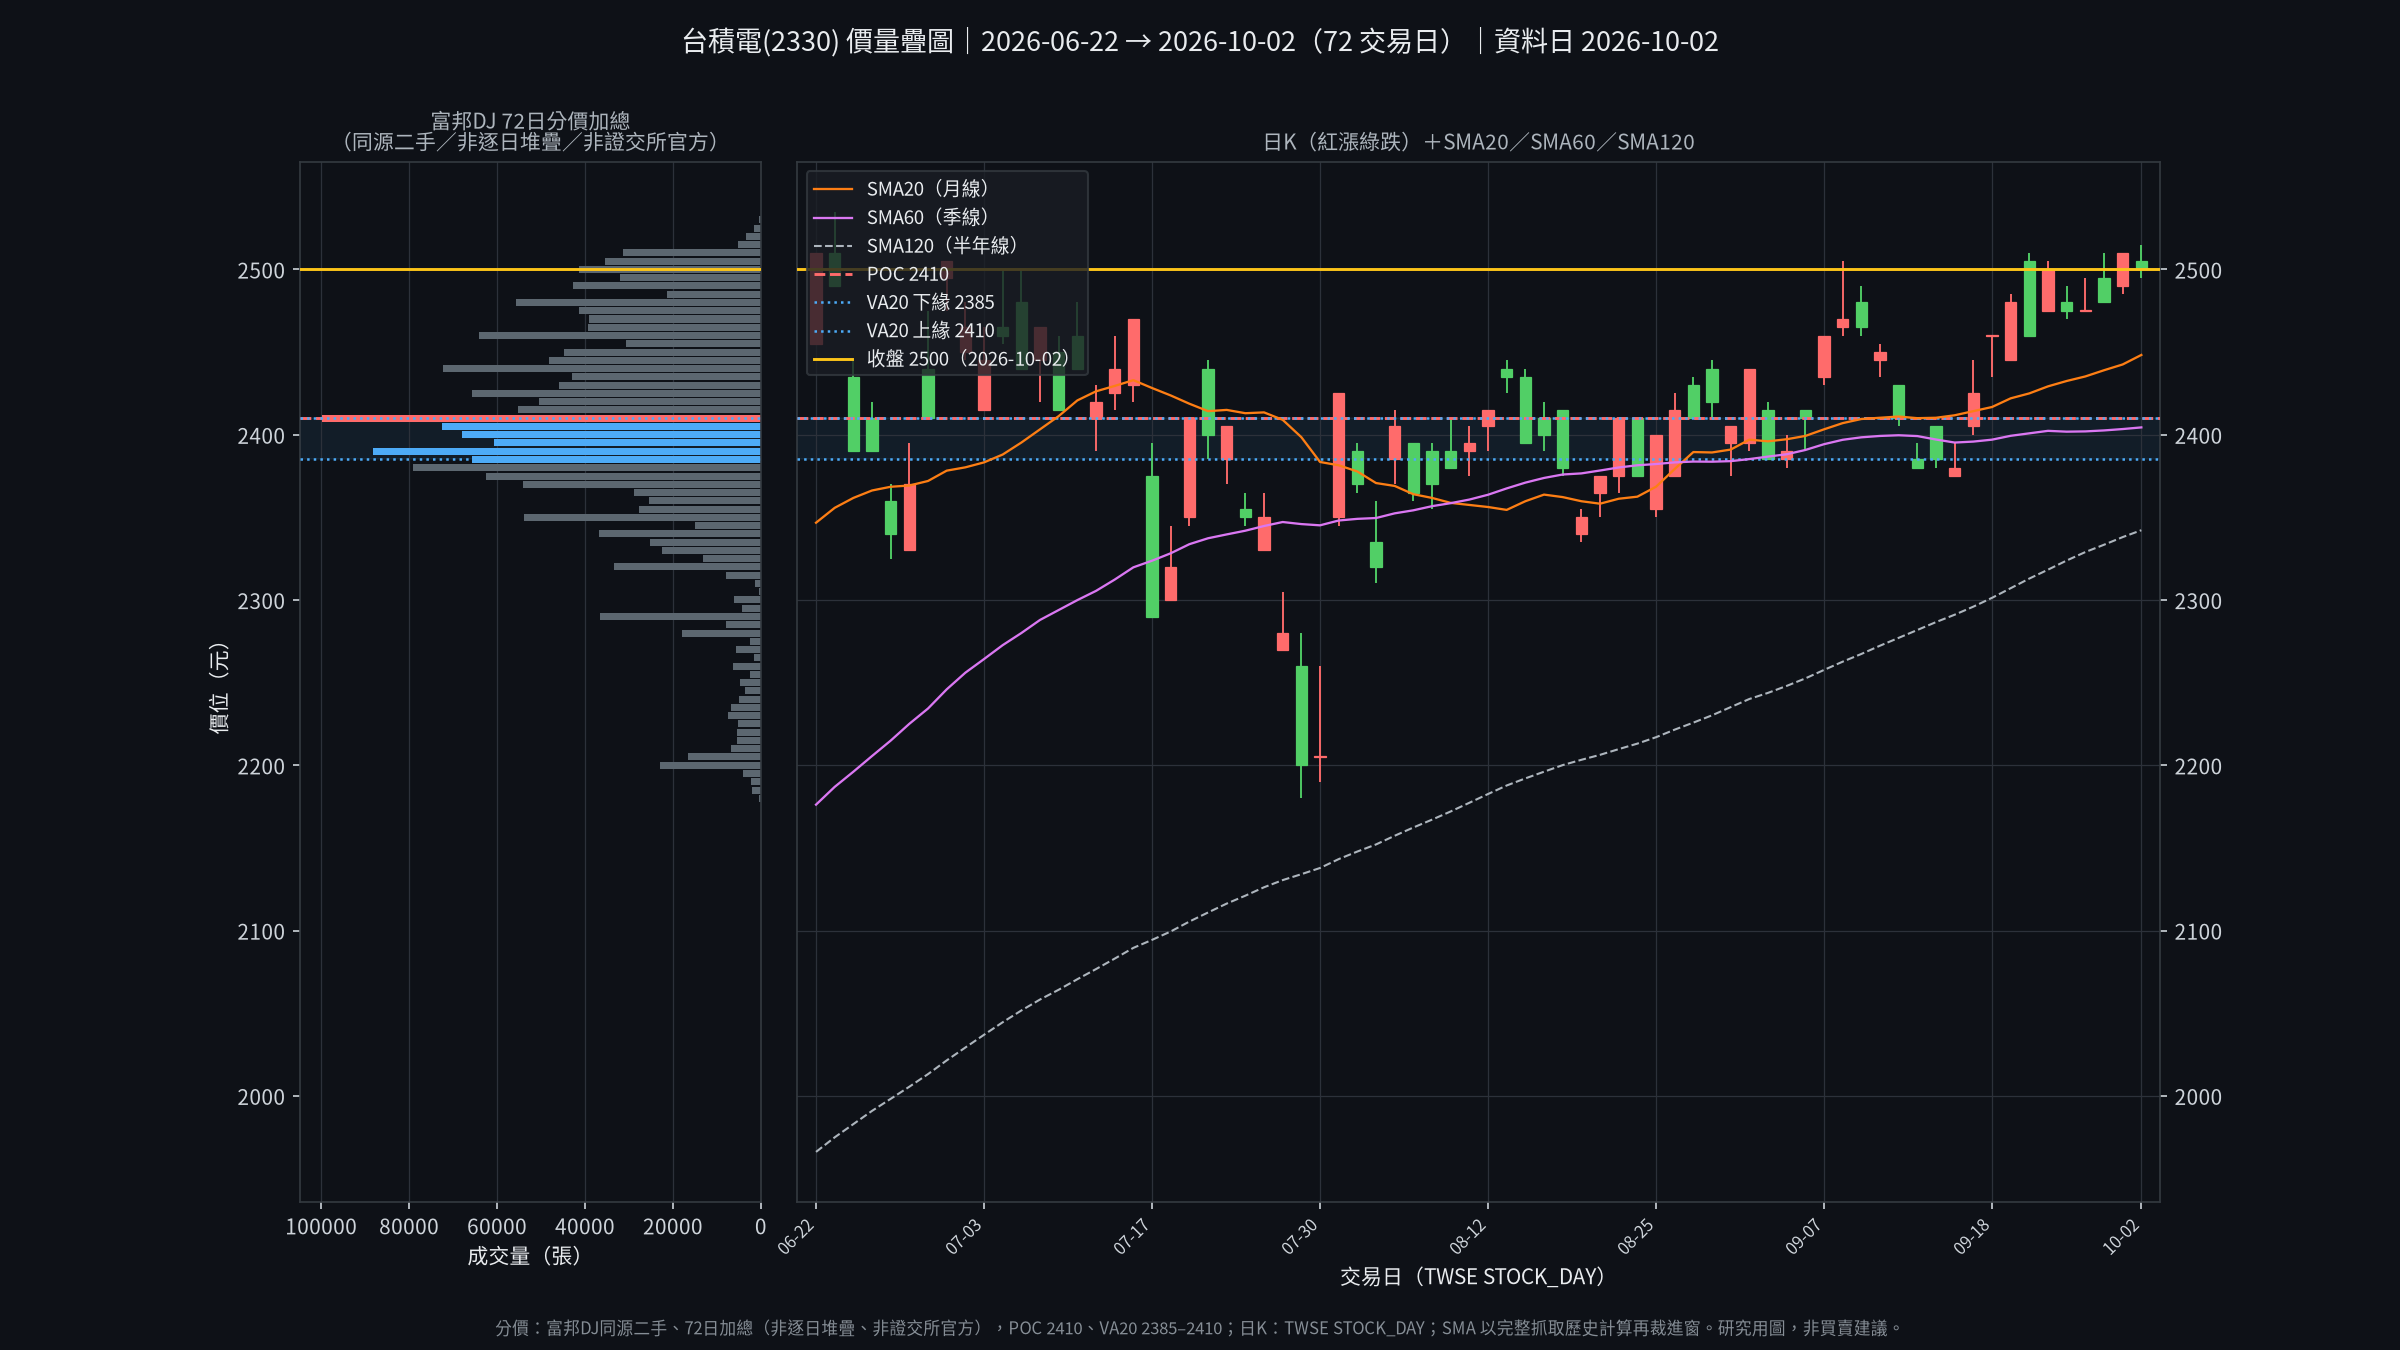
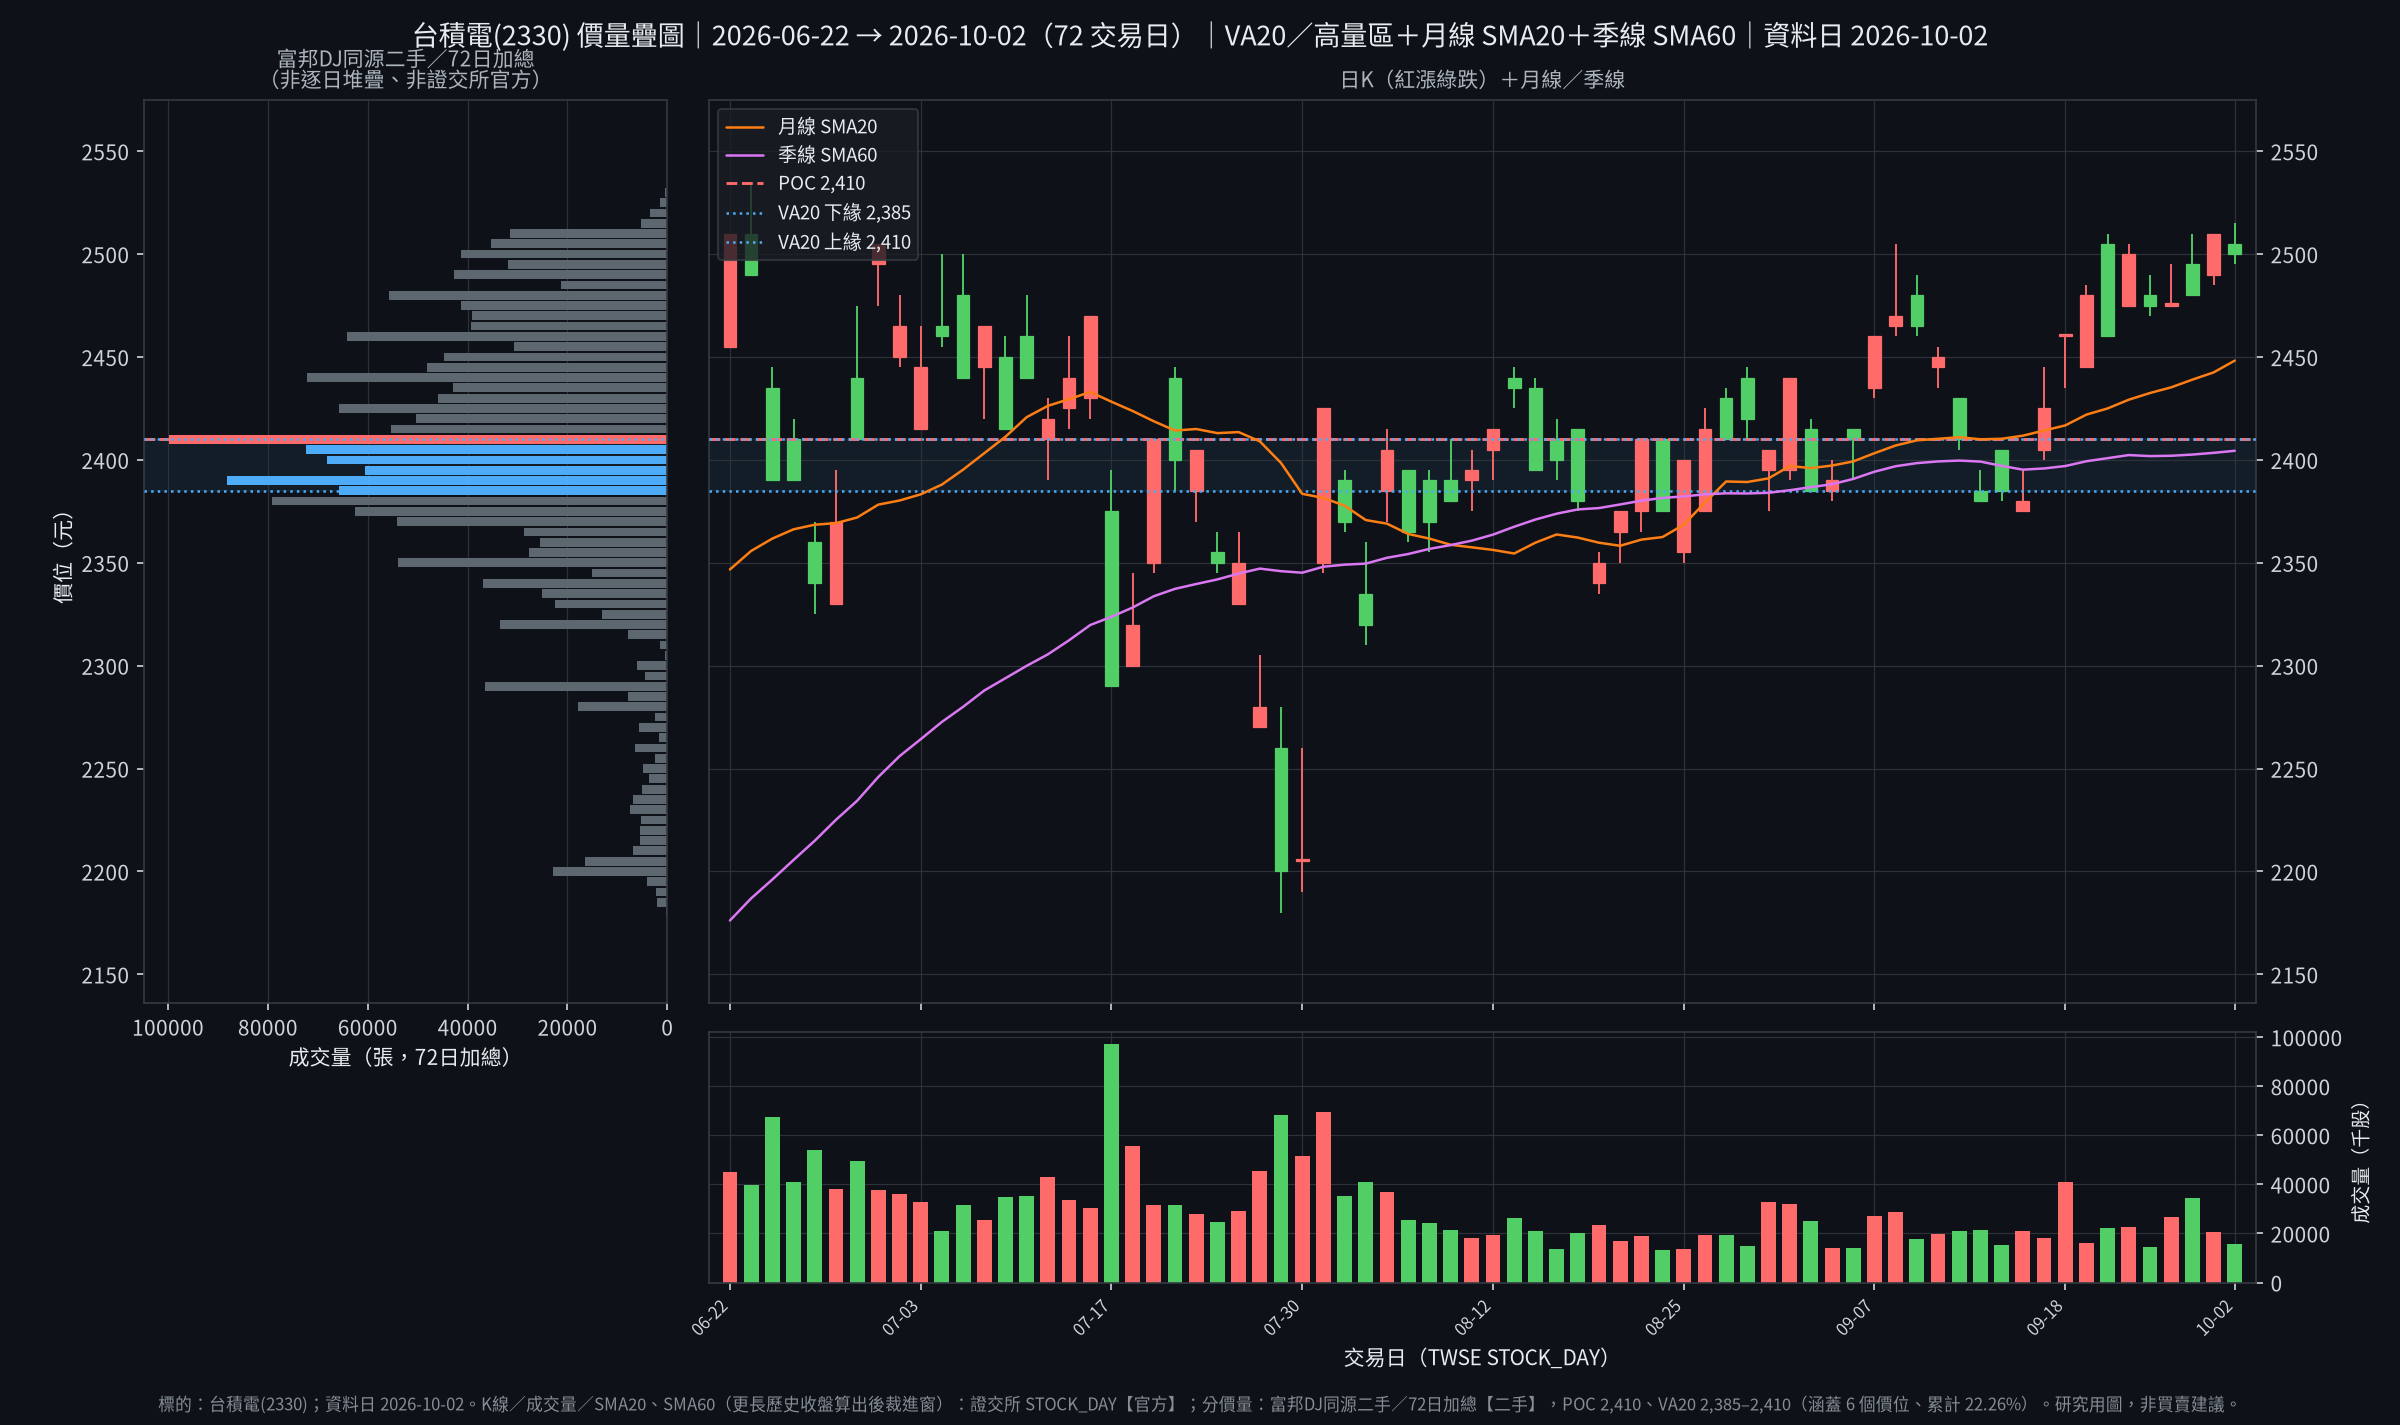
修正 2330 台積電價量疊圖：移除收盤線、SMA120 與 SMA240
- 圖說：移除 SMA120，改為只列 SMA20 / SMA60
- 表格：移除「收盤」獨立列（改併入「現價相對價值區」）、SMA120 與 SMA240 列
- 圖例：移除 SMA120 灰色虛線，補充顏色代碼與 POC / VA20 線型
- 5.1 技術面依據：移除 SMA120 數值（評分 7.0 不變）
- Data & Sources 缺件：移除 STOCK_DAY 2025-06～09 字樣
- 待補清單第 5 項：改為只寫 openapi STOCK_DAY_ALL（項數不變）
- 重繪圖片：新圖移除收盤線與 SMA120，加日成交量副圖，數字未變（POC 2,410、VA20 2,385–2,410、SMA20 2,448、SMA60 2,404）

待補清單：原 43 項保持 43 項（僅修改第 5 項說明）

diff --git a/analysis/2330_TSMC.md b/analysis/2330_TSMC.md
@@ -20,7 +20,7 @@ Data & Sources
                 指數收盤，3Q26 法說焦點）；聯電、日月光投控 2Q26 業績報導（MoneyDJ / biggo）；
                 HiStock 個股本益比月頻表（2026-10-04 重抓；2026/10 值 28.98 與證交所 2026-10-02 一致；5 年分位為自算）
               【缺件】公開資訊觀測站（MOPS）與 doc.twse：2026-10-01 診斷為封鎖，本次未重試也未繞過；
-                TWSE STOCK_DAY 2025-06 至 2025-09 與 openapi.twse.com.tw STOCK_DAY_ALL 回「安全性考量」阻擋頁，
+                openapi.twse.com.tw STOCK_DAY_ALL 回「安全性考量」阻擋頁，
                 重試兩次仍被擋，未繞過
   來源標示定義:【一手】公司自己發布的文件：IR、法說會、財報原檔（含公司經公開資訊觀測站申報的版本）；
               【官方】交易所、主管機關的市場資料：個股日成交、三大法人、外資持股等；
@@ -76,20 +76,18 @@ Data & Sources
 
 ### 關鍵數據補充：價量疊圖
 
-![2330 台積電價量疊圖（日K、成交量、分價量 POC / VA20、SMA20/60/120）](img/2330_price_volume_overlay_2026-10-02.png)
+![2330 台積電價量疊圖（日K、成交量、分價量 POC / VA20、SMA20 / SMA60）](img/2330_price_volume_overlay_2026-10-02.png)
 
 資料日：2026-10-02 收盤。K 線與成交量為證交所 STOCK_DAY 日資料；分價量為富邦 DJ 72 日加總表（2026-06-22 至 2026-10-02，二手，非逐日堆疊、非證交所官方）。
 
 | 圖上項目 | 數值 | 來源 / 算法 |
 |----------|------|-------------|
-| 收盤 | NT$2,500 | 證交所 |
 | 控制點 POC（成交量最大價位） | NT$2,410（99,826 張） | 富邦 DJ 72 日分價量，二手 |
 | 價值區 VA20（定義：自 POC 向兩側擴張，累計成交量 ≥ 20% 的價格區間） | NT$2,385–2,410，涵蓋 6 個價位（每檔 5 元），累計 454,809 張 = 22.26%（72 日總量 2,043,222 張；分價表共 72 個價位，2,180–2,535） | 同上，自行彙整 |
-| 現價相對價值區 | +3.7%（在區間上方；對 VA20 上緣 2,410） | 自算 |
-| SMA20 / SMA60 / SMA120 | 2,448 / 2,404 / 2,342 | 證交所日收盤自算 |
-| SMA240 | 未畫 | 缺件：2025-06 至 2025-09 的證交所日資料被「安全性考量」阻擋頁擋下，只取得 243 個交易日，240 日均線窗口內有效天數不足，不用不完整資料硬畫 |
+| 現價相對價值區 | 2026-10-02 收盤 NT$2,500（證交所）：+3.7%（在區間上方；對 VA20 上緣 2,410） | 自算 |
+| SMA20 / SMA60 | 2,448 / 2,404 | 證交所日收盤自算（以 243 個交易日歷史計算，再裁進 72 日窗顯示） |
 
-圖例：紅漲綠跌；SMA20 橘色細實線、SMA60 紫色細實線、SMA120 灰色虛線。
+圖例：紅漲綠跌（#ff6b6b / #51cf66）；SMA20 橘色細實線、SMA60 紫色細實線；POC 紅色虛線；VA20 上下緣藍色點線。
 
 ---
 
@@ -443,7 +441,7 @@ GARP 進場價 = 2,330 × 0.9 = NT$2,097，記 NT$2,100。價值進場價 = 2,33
 | 商業品質 | 25% | 8.8 | 護城河 8.5 與財務體質 9.0 的平均。9.0 來自 ROIC 利差 +24 pp、淨現金、流動比率 2.5x；FCF 轉換與營運資金趨勢是扣分項 |
 | 估值 | 25% | 4.3 | 安全邊際 −7%，風險報酬比 0.25 : 1。評分規則：合理價 5.0 分，溢價每 1% 扣 0.1（5.0 + 0.10 × (−7.3) = 4.27）。上一版 4.5 是判斷值 |
 | 市場訊號 | 20% | 6.5 | 法說上修全年美元成長與資本支出，語氣強。外資 69.17%，2026-10-01 買超後 2026-10-02 賣超。目標價全部高於現價。內部人買賣申報（MOPS）為缺件 |
-| 技術面 | 15% | 7.0 | 2026-10-02 收盤 NT$2,500 在 SMA20 2,448、SMA60 2,404、SMA120 2,342 之上，也高於 72 日價值區 VA20 上緣 2,410（POC 2,410）；RSI 60.4（stockanalysis，二手）；距 52 週高點 −1.4% |
+| 技術面 | 15% | 7.0 | 2026-10-02 收盤 NT$2,500 在 SMA20 2,448、SMA60 2,404 之上，也高於 72 日價值區 VA20 上緣 2,410（POC 2,410）；RSI 60.4（stockanalysis，二手）；距 52 週高點 −1.4% |
 | 風險 | 15% | 5.0 | Bear 強度 4.5。產能集中與毛利率稀釋還在 |
 | **綜合** | | **6.4** | 8.8×0.25 + 4.3×0.25 + 6.5×0.20 + 7.0×0.15 + 5.0×0.15 = 6.375，四捨五入記 6.4 |
 
@@ -569,7 +567,7 @@ A 6 + B 7 + C 8 + D 7 + E 5 + F 4 + G 6 = 43 項。
 2. 3Q26 財報與法說（含 3Q26 共識 EPS：4.1 的「下一季 E」只有自行估算 ~26.6，沒有取得共識 EPS 可對照）。公司日曆排 2026-10-15 14:00，截至 As of 尚未公布
 3. MOPS 內部人持股異動、重大訊息：MOPS 與 doc.twse 於 2026-10-01 診斷為封鎖，本次未重試也未繞過
 4. 2Q26 會計師核閱報告結論原文：財報 PDF 內該頁為影像，文字層抽不出，未逐字核對
-5. TWSE 2025-06 至 2025-09 日成交資料與 openapi STOCK_DAY_ALL：被「安全性考量」阻擋頁擋下（重試兩次），未繞過。因此沒有畫 SMA240
+5. openapi STOCK_DAY_ALL：被「安全性考量」阻擋頁擋下（重試兩次），未繞過；日成交改用 STOCK_DAY，不影響本報告數字
 6. 內部人（董監）持股細項與薪酬連結 ROIC / FCF 的逐項核對（年報已載 CEO 持股 0.03%，其餘未逐項核）
 7. 2303、3711 的完整財報與 workflow 評分：同業表只放 2Q26 毛利率、EPS、P/E，其餘「未評估」
 8. 2021–2022 損益一手資料與十年配息年表：目前以 stockanalysis 二手資料補 5 年，不給滿分
